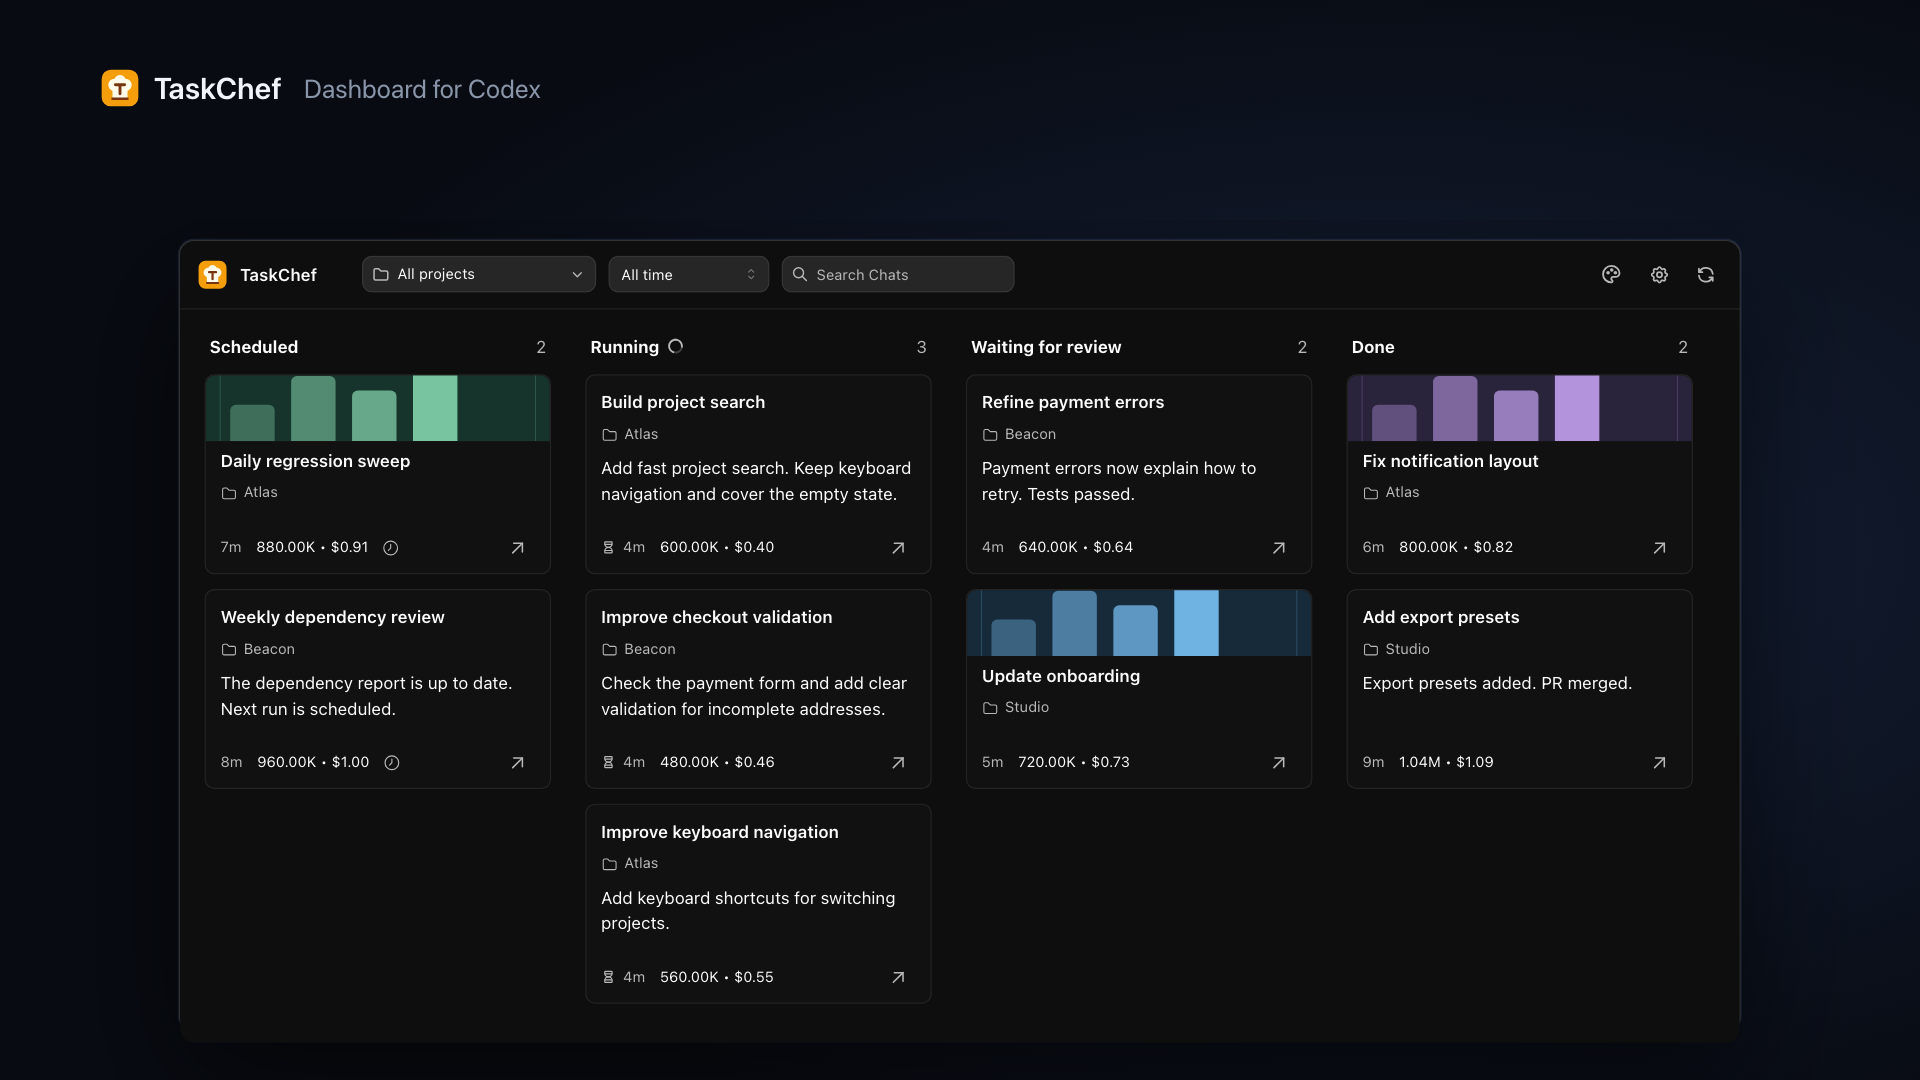
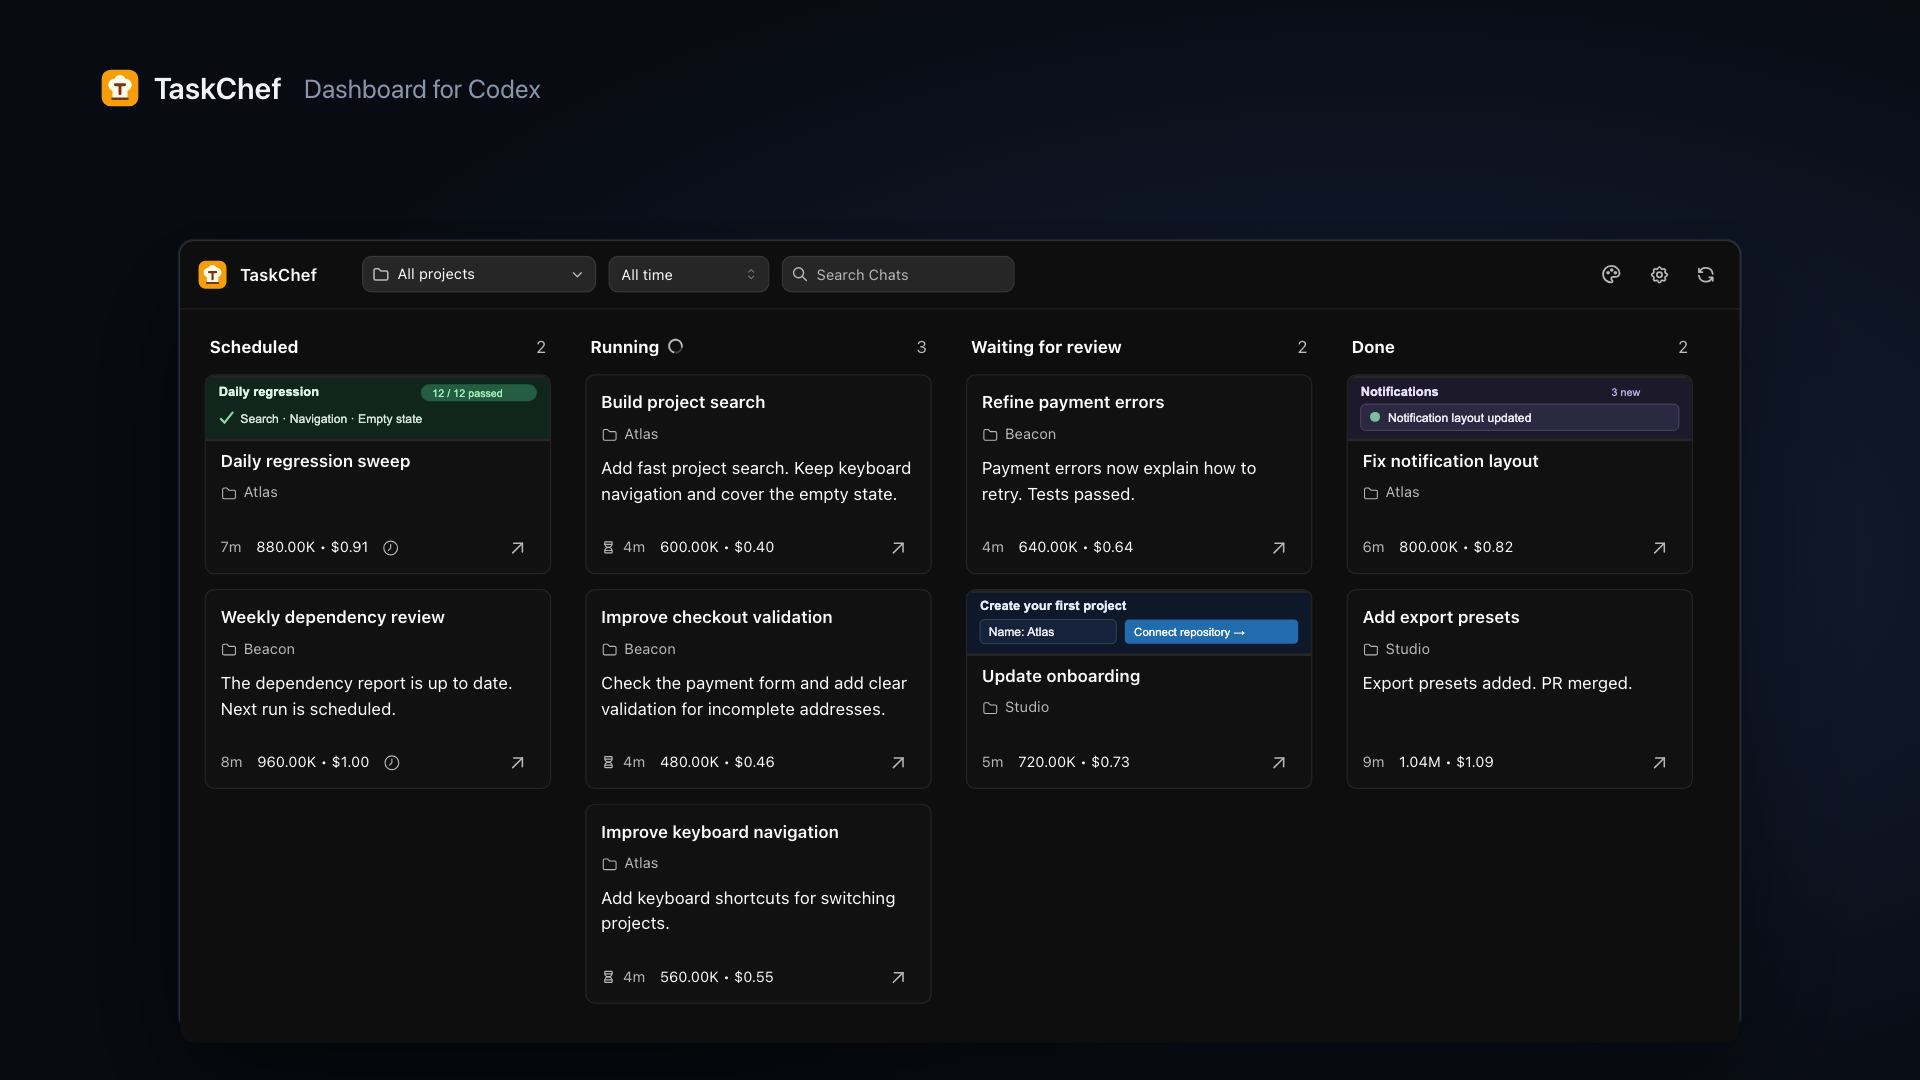
chore(video): use task UI covers and four night themes

Changed region(s): [[0.0938, 0.3361, 0.2812, 0.4278], [0.6875, 0.3361, 0.8438, 0.4278], [0.5, 0.55, 0.6875, 0.6111]]

diff --git a/video/Launch.tsx b/video/Launch.tsx
@@ -28,8 +28,8 @@ export function Launch() {
   const time = elapsed + (frame >= 115 ? 65 / 30 : 20 / 30);
   const themeScene = frame >= 865 && frame < 1000;
   const themeTime = (frame - 865) / fps;
-  const themeId = themeScene && themeTime >= 2 && themeTime < 3 ? 'chatgpt' : themeScene && themeTime >= 3 && themeTime < 4 ? 'catppuccin' : 'codex';
-  const appearance = themeId === 'chatgpt' ? 'light' : 'dark';
+  const themeId = !themeScene || themeTime < 1.8 || themeTime >= 4.05 ? 'codex' : themeTime < 2.55 ? 'chatgpt' : themeTime < 3.3 ? 'catppuccin' : 'dracula';
+  const appearance = 'dark';
   // One camera and one board preserve spatial continuity across chapters.
   const times = [2, 6.7, 7.6, 11.7, 12.7, 15.7, 17.1, 18.2, 19, 20.9, 22.2, 25.8, 27, 28, 28.7, 29.2, 30, 31];
   const scales = [1.22, 1.22, 3, 3, 2.4, 2.4, 1.22, 1.22, 2.3, 2.3, 2.4, 2.4, 1.22, 1.22, 2.8, 2.8, 1.22, 1.22];
@@ -72,7 +72,7 @@ export function Launch() {
     <Sequence name="Turn and chat usage" from={415} durationInFrames={2.5 * fps} premountFor={fps}><ChapterTitle>Usage, <span>turn by turn.</span></ChapterTitle></Sequence>
     <Sequence name="Merged PR moves to Done" from={565} durationInFrames={2.5 * fps} premountFor={fps}><ChapterTitle>Merged. <span>Done.</span></ChapterTitle></Sequence>
     <Sequence name="Project filtering" from={715} durationInFrames={2.5 * fps} premountFor={fps}><ChapterTitle>Focus on <span>one project.</span></ChapterTitle></Sequence>
-    <Sequence name="Theme switching" from={865} durationInFrames={2.5 * fps} premountFor={fps}><ChapterTitle>Make it <span>your own.</span></ChapterTitle></Sequence>
+    <Sequence name="Theme switching" from={865} durationInFrames={2.5 * fps} premountFor={fps}><ChapterTitle>Choose <span>your theme.</span></ChapterTitle></Sequence>
     <Sequence name="TaskChef closing" from={1000} durationInFrames={3 * fps} premountFor={fps}>
       <AbsoluteFill className="film film-closing"><div className="film-glow" /><div><Img src={staticFile('taskchef-dark.svg')} alt="" /><h1>TaskChef</h1><p>Dashboard for Codex</p><div className="film-url">taskchef.dev</div></div></AbsoluteFill>
     </Sequence>

diff --git a/video/Frame.tsx b/video/Frame.tsx
@@ -24,7 +24,7 @@ function FilmThemePanel({ themeId, appearance }: { themeId: string; appearance: 
     <h2>Appearance</h2>
     <SegmentedControl key={appearance} transitionDuration={0} fullWidth value={appearance} onChange={noop} data={[{ value: 'light', label: 'DAY' }, { value: 'dark', label: 'NIGHT' }, { value: 'system', label: 'SYSTEM' }]} size="xs" />
     <h3>Theme</h3><div className="next-theme-list" role="radiogroup" aria-label="Theme">
-      {['chatgpt', 'catppuccin', 'codex'].map((id, index) => {
+      {['chatgpt', 'catppuccin', 'dracula', 'codex'].map((id, index) => {
         const item = visualTheme(id, appearance);
         const colors = themeVariables(item, appearance);
         return <div key={id}>{index === 1 && <div className="next-theme-group">Codex themes</div>}

diff --git a/video/film.css b/video/film.css
@@ -69,4 +69,4 @@
 
 .film-product .taskchef-board-card:has(.taskchef-reply-cover) .taskchef-turn-card { display: none; }
 .film-product .taskchef-reply-cover { height: 54px; margin-bottom: 6px; background: var(--taskchef-surface-muted); }
-.film-product .taskchef-reply-cover img { object-fit: cover; }
+.film-product .taskchef-reply-cover img { object-fit: contain; }

diff --git a/docs/launch/video-script.md b/docs/launch/video-script.md
@@ -16,7 +16,7 @@ there is no narration or screen recording.
 | 13.83–18.83s | Usage, turn by turn. | Open the native Details popup. Highlight Latest turn (1.24M · $0.86), then Total chat (5.32M · $3.72). Keep the native API estimate note visible. |
 | 18.83–23.83s | Merged. Done. | Latest-turn PR #42 changes from open to merged. Its native link, result text and glyph update as the card moves into Done. |
 | 23.83–28.83s | Focus on one project. | Highlight the real project picker. Change All projects to Atlas. Other projects fade out and matching cards reposition. Scheduled remains visible. |
-| 28.83–33.33s | Make it your own. | Show the native appearance controls. Switch ChatGPT Day → Catppuccin Night → Codex Night, then return to the full board. |
+| 28.83–33.33s | Choose your theme. | Show the native appearance controls. Switch ChatGPT Night → Catppuccin Night → Dracula Night → Codex Night, then return to the full board. |
 | 33.33–36.33s | TaskChef · Dashboard for Codex | Logo, identity and taskchef.dev. Music fades to the ending. |
 
 The opening holds for 1⅓ seconds. The overview moves straight into Running
@@ -52,15 +52,15 @@ Key review points at 30 fps:
 - Frames 520 and 544: latest-turn and total-chat usage highlights.
 - Frames 649–670: PR merged → Done.
 - Frames 782–811: project selection, fading and repositioning.
-- Frames 945 and 970: light and dark theme switches.
+- Frames 945 and 970: dark theme switches.
 - Frame 1040: ending.
 
 The shared camera and board preserve spatial continuity. `ProductBoard` reuses
 `TaskBoard`, `ProjectPicker`, Mantine controls, native theme and production CSS;
 `NextTaskDetail` supplies the actual usage table. The video uses the native
 cover loader and appearance icon, controls, Aa previews and theme variables.
-Its frame-controlled theme panel shows three choices from the native list.
-Cover illustrations are local SVG fixtures authored in code. Frame-driven overrides keep
+Its frame-controlled theme panel shows four choices from the native list.
+Cover images are local SVG UI previews: project setup, notifications, and regression results. Frame-driven overrides keep
 motion, spinner rotation, clock labels and usage values repeatable. They apply
 only to the video. The host bridge is not mounted and the film makes no MCP or
 GitHub requests. No product behavior or installed plugin changes.
